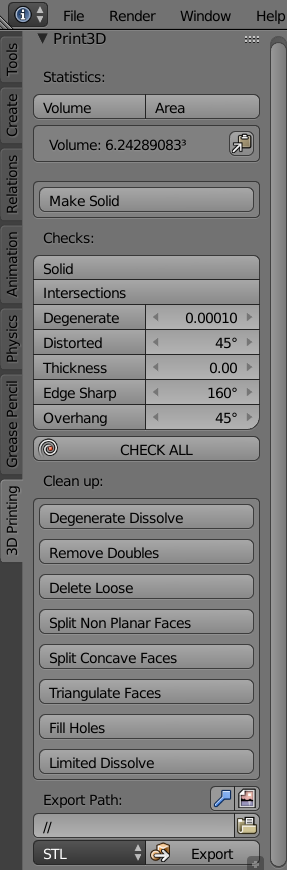
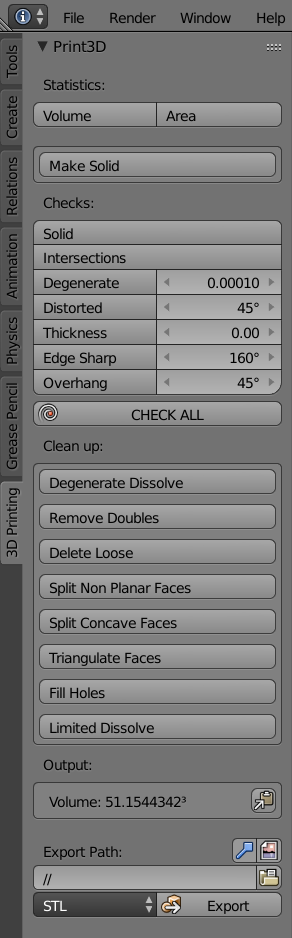
Fix bug in displaying content of Report's Output

diff --git a/ui.py b/ui.py
@@ -53,6 +53,8 @@ class Print3DToolBar:
         if info:
             obj = context.edit_object
 
+            layout.label("Output:")
+
             box = layout.box()
             col = box.column(align=False)
             for i, (text, data) in enumerate(info):
@@ -61,13 +63,16 @@ class Print3DToolBar:
                     col.operator("mesh.print3d_select_report",
                         text=text,
                         icon=Print3DToolBar._type_to_icon[bm_type]).index = i
-                else:
+                elif 'Volume:' in text:
                     rowsub = col.row(align=True)
                     rowsub.label(text)
-                    if 'Volume:' in text:
-                        rowsub.operator("mesh.print3d_copy_volume_to_clipboard", text="", icon='COPYDOWN').volume = text
-                    else:
-                        rowsub.operator("mesh.print3d_copy_area_to_clipboard", text="", icon='COPYDOWN').area = text
+                    rowsub.operator("mesh.print3d_copy_volume_to_clipboard", text="", icon='COPYDOWN').volume = text
+                elif 'Area:' in text:
+                    rowsub = col.row(align=True)
+                    rowsub.label(text)
+                    rowsub.operator("mesh.print3d_copy_area_to_clipboard", text="", icon='COPYDOWN').area = text
+                else:
+                    col.label(text)
 
 
     def draw(self, context):
@@ -78,12 +83,10 @@ class Print3DToolBar:
         obj = context.object
 
         row = layout.row()
-        row.label("Statistics:")
+        layout.label("Statistics:")
         rowsub = layout.row(align=True)
         rowsub.operator("mesh.print3d_info_volume", text="Volume")
         rowsub.operator("mesh.print3d_info_area", text="Area")
-
-        Print3DToolBar.draw_report(layout, context)
         layout.separator()
 
         box = layout.box()
@@ -122,24 +125,24 @@ class Print3DToolBar:
 
         box = layout.box()
         col = box.column()
-        col.operator("mesh.print3d_clean_degenerates",
-                     text="Degenerate Dissolve")
+        col.operator("mesh.print3d_clean_degenerates", text="Degenerate Dissolve")
         col = box.column()
         col.operator("mesh.print3d_clean_doubles", text="Remove Doubles")
         col = box.column()
         col.operator("mesh.print3d_clean_loose", text="Delete Loose")
         col = box.column()
-        col.operator("mesh.print3d_clean_non_planars",
-                     text="Split Non Planar Faces")
+        col.operator("mesh.print3d_clean_non_planars", text="Split Non Planar Faces")
         col = box.column()
         col.operator("mesh.print3d_clean_concaves", text="Split Concave Faces")
         col = box.column()
-        col.operator("mesh.print3d_clean_triangulates",
-                     text="Triangulate Faces")
+        col.operator("mesh.print3d_clean_triangulates", text="Triangulate Faces")
         col = box.column()
         col.operator("mesh.print3d_clean_holes", text="Fill Holes")
         col = box.column()
         col.operator("mesh.print3d_clean_limited", text="Limited Dissolve")
+
+        Print3DToolBar.draw_report(layout, context)
+        layout.separator()
 
         col = layout.column()
         rowsub = col.row(align=True)

diff --git a/__init__.py b/__init__.py
@@ -22,7 +22,7 @@ bl_info = {
     "name": "3D Print Toolbox Modified",
     "description": "Utilities for 3D printing",
     "author": "Agnieszka Pas",
-    "version": (1, 5),
+    "version": (1, 5, 1),
     "blender": (2, 78, 0),
     "location": "3D View > Toolbox",
     "warning": "",

diff --git a/README.md b/README.md
@@ -14,10 +14,10 @@ Images below display original '3D Print Toolbox' (image on the left) and current
 * more visible 'Check All' button (Checks part)
 * completely changed 'Clean Up' part to have more influence on the clean up process
 * added 'Copy to Clipboard' of the Volume and Area in Report's Output
-* moved Report's Output into Statistics
 
 ### Plans to add:
 
+* remove displaying Volume and Area from Report's Output and move it into Statistics part
 * redesign addon's panel (add panel for each part separately instead of 1 common panel for all parts)
 * material cost calculations (work in progress)
 * dropdown with options: 'Selected only' and 'All' for Degenerate Dissolve (Clean up part)
